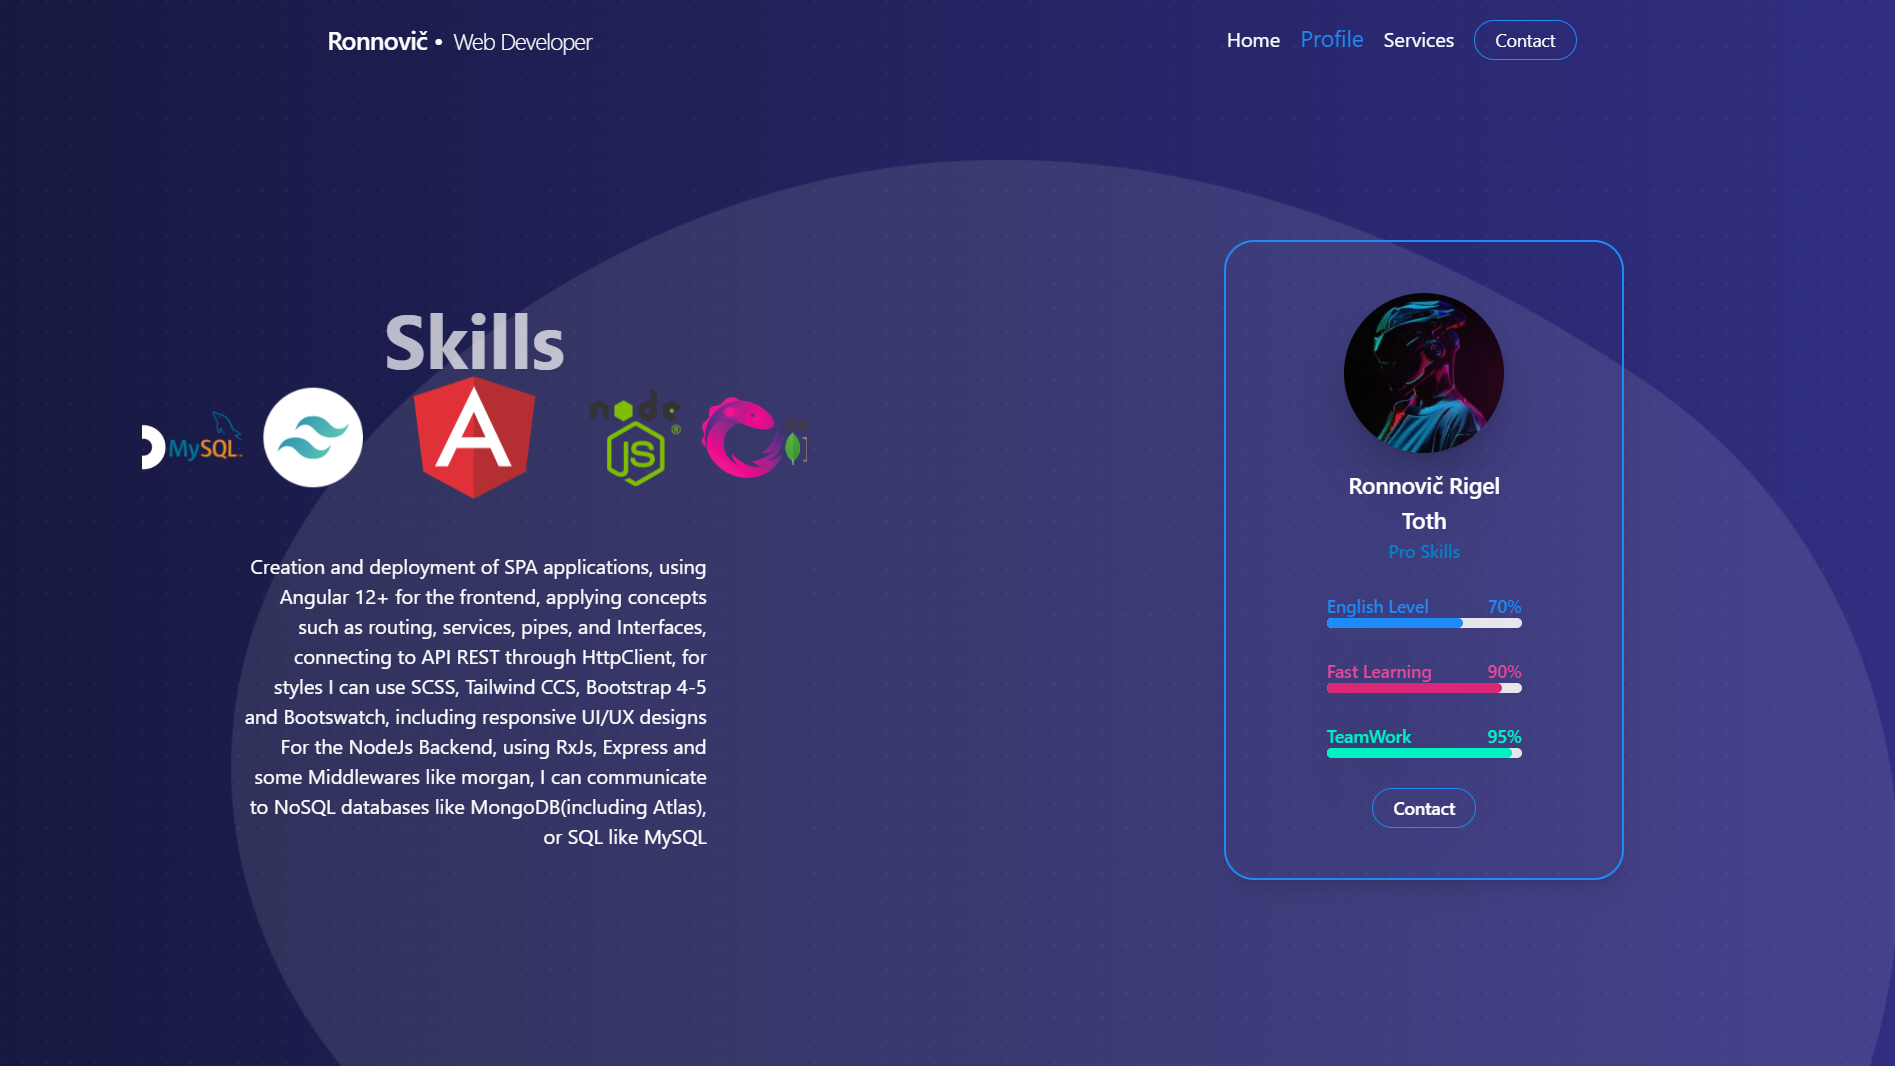
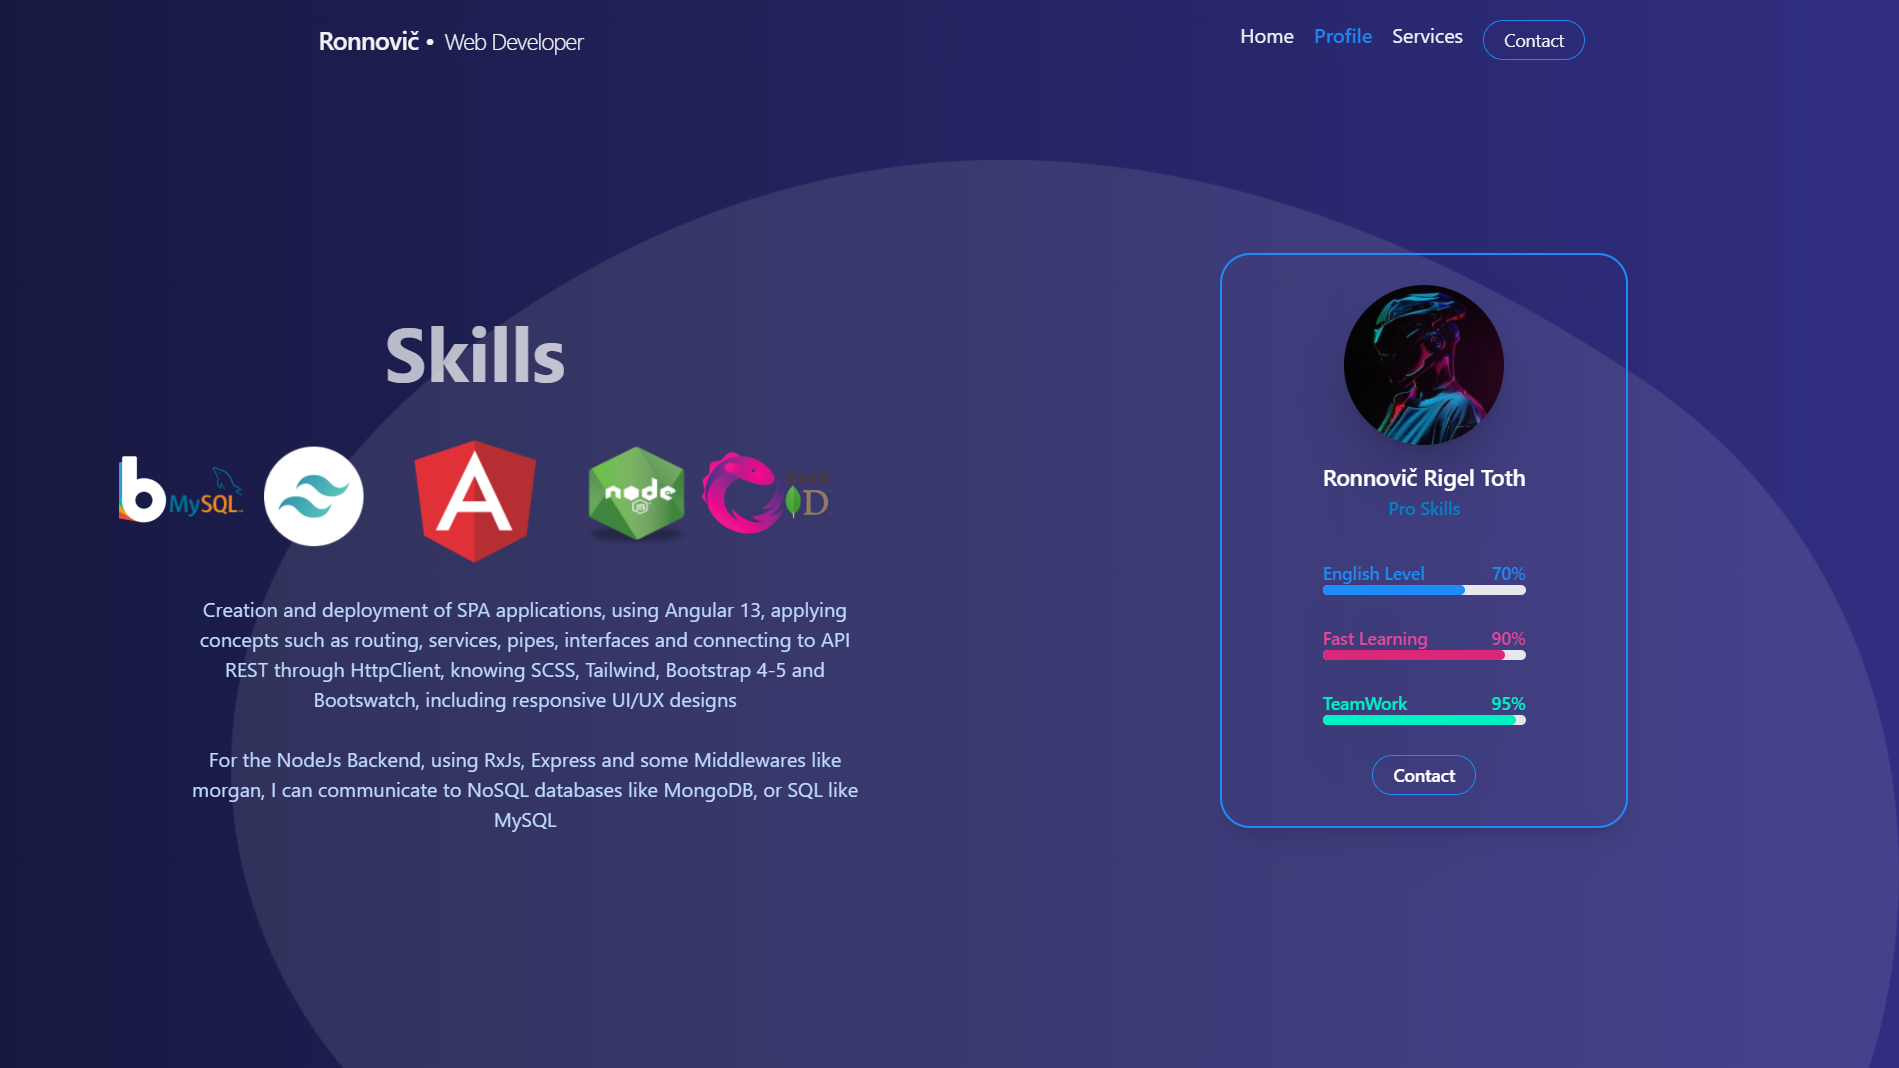
responsive started

diff --git a/src/app/pages/landing/landing.component.html b/src/app/pages/landing/landing.component.html
@@ -5,13 +5,14 @@
     <!-- <img class="z-i2 h-32 botton-0 left-0 mt-60 opacity-5 absolute" src="./assets/img/path3.png"> -->
 
     <div class="flex items-center justify-center mx-0 lg:mx-40 ">
-      <div class="container bg-transparent grid grid-cols-1 grid-rows-2 h-screen lg:grid-cols-3 mt-28">
+      <div class="container bg-transparent grid grid-cols-1 grid-rows-2 h-screen md:grid-cols-2 lg:grid-cols-3 mt-24 lg:mt-10">
   
-        <div class="bg-transparent grid grid-row row-span-2">
-          <div class="flex flex-col bg-transparent px-2 lg:px-5 w-11/12 m-auto rounded-lg 
+        <div class="bg-transparent grid grid-row row-span-2 ">
+          <div data-aos="zoom-in" data-aos-easing="ease-in-out"
+          class="flex flex-col bg-transparent px-2 lg:px-5 m-auto rounded-lg 
           hover:bg-pct hover:shadow-2xl hover:shadow-pct h-auto">
             <div class=" text-4xl text-bl text-center pt-6">Amazing Design <i class="fas fa-palette text-2xl"></i></div>
-            <div class="block text-xl text-white text-center p-5 ">With tools like Bootstrap 5, Bootswatch, SASS, SCSS, and Tailwind and others, we'll create the best, colorful, innovative and responsive webapp ever</div>
+            <div class=" text-xl text-white text-center p-3 ">With tools like Bootstrap 5, Bootswatch, SASS, SCSS, and Tailwind and others, we'll create the best, colorful, innovative and responsive webapp ever</div>
             <!-- <swiper [config]="config">
               <div class="swiper-wrapper">
                 <img class="swiper-slide" *ngFor="let img of Imgs" [src]="img.src" [alt]="img.alt" />
@@ -21,34 +22,47 @@
         </div>
 
         <div class="bg-transparent grid grid-col mt-[20rem] lg:mt-0">
-          <div class="flex flex-col bg-transparent px-2 lg:px-5 w-11/12 m-auto rounded-lg 
+          <div data-aos="fade-down-right" data-aos-easing="ease-in-out" 
+          class="flex flex-col bg-transparent px-2 lg:px-5 m-auto rounded-lg 
           hover:bg-pink-500 hover:shadow-2xl hover:shadow-pink-500 ">
-            <div class="block text-4xl text-white text-center pt-6">Quality <i class="fas fa-clipboard-check text-2xl"></i></div>
-            <div class="block text-xl text-white text-center p-5">I dedicate each day of my life learning new things and always preparing myself, to always improve the quality of my job and user satisfaction</div>
+            <div class=" text-4xl text-white text-center pt-6">Quality <i class="fas fa-clipboard-check text-2xl"></i></div>
+            <div class=" text-xl text-white text-center p-3">I dedicate each day of my life learning new things and always preparing myself, to always improve the quality of my job and user satisfaction</div>
+            <span class="m-auto text-pink-500 text-lg hidden lg:flex">Hover me</span>
+            <span class="m-auto text-pink-500 text-lg lg:hidden">Tap me</span>
           </div>
         </div>
 
         <div class="bg-transparent grid grid-col mt-5">
-          <div class="flex flex-col bg-transparent px-2 lg:px-5 w-11/12 m-auto rounded-lg 
+          <div data-aos="fade-down-left" data-aos-easing="ease-in-out" 
+          class="flex flex-col bg-transparent px-2 lg:px-5 m-auto rounded-lg 
           hover:bg-grn hover:shadow-2xl hover:shadow-grn ">
-            <div class="block text-4xl text-white text-center pt-6">Comunication <i class="fas fa-comments text-2xl"></i></div>
-            <div class="block text-xl text-white text-center  p-5">Communication and teamwork are fundamentals for successful projects, I'm always willing to dialogue with my partners to find the most optimal solutions</div>
+            <div class=" text-4xl text-white text-center pt-6">Comunication<i class="fas fa-comments text-2xl"></i> 
+            </div>
+            <div class="text-xl text-white text-center p-3">Communication and teamwork are fundamentals for successful projects, I'm always willing to dialogue with my partners to find the most optimal solutions</div>
+            <span class="m-auto text-grn text-lg hidden lg:flex">Hover me</span>
+            <span class="m-auto text-grn text-lg lg:hidden">Tap me</span>
           </div>
         </div>
 
-        <div class="bg-transparent grid grid-col mt-5">
-          <div class="flex flex-col bg-transparent px-2 lg:px-5 w-11/12 m-auto rounded-lg 
+        <div data-aos="fade-up-right" data-aos-easing="ease-in-out" 
+        class="bg-transparent grid grid-col mt-5">
+          <div class="flex flex-col bg-transparent px-2 lg:px-5 m-auto rounded-lg 
           hover:bg-bl hover:shadow-2xl hover:shadow-bl ">
-            <div class="block text-4xl text-white text-center pt-6">UX/UI <i class="fas fa-user-check text-2xl"></i></div>
-            <div class="block text-xl text-white text-center  p-5">Knowing and applying UX/UI concepts is essential for an application to be intuitive, friendly and, above all, to get the user to connect with your company.</div>
+            <div class=" text-4xl text-white text-center pt-6">UX/UI <i class="fas fa-user-check text-2xl"></i></div>
+            <div class="text-xl text-white text-center  p-5">Knowing and applying UX/UI concepts is essential for an application to be intuitive, friendly and, above all, to get the user to connect with your company.</div>
+            <span class="m-auto text-bl text-lg hidden lg:flex">Hover me</span>
+            <span class="m-auto text-bl text-lg lg:hidden">Tap me</span>
           </div>
         </div>
 
-        <div class="bg-transparent grid grid-col mt-5">
-          <div class="flex flex-col bg-transparent px-2 lg:px-5 w-11/12 m-auto rounded-lg 
+        <div data-aos="fade-up-left" data-aos-easing="ease-in-out" 
+        class="bg-transparent grid grid-col mt-5">
+          <div class="flex flex-col bg-transparent px-2 lg:px-5 m-auto rounded-lg 
           hover:bg-prpl hover:shadow-2xl hover:shadow-prpl ">
-            <div class="block text-4xl text-white text-center pt-6">Full Job <i class="fas fa-rocket text-2xl"></i></div>
-            <div class="block text-xl text-white text-center  p-5">A process that goes through all the parts of the proyect in a very professional way, frontend, backend, database, hosting and everything in one place</div>
+            <div class=" text-4xl text-white text-center pt-6">Full Job <i class="fas fa-rocket text-2xl"></i></div>
+            <div class=" text-xl text-white text-center  p-5">A process that goes through all the parts of the proyect in a very professional way, frontend, backend, database, hosting and everything in one place</div>
+            <span class="m-auto text-prpl text-lg hidden lg:flex">Hover me</span>
+            <span class="m-auto text-prpl text-lg lg:hidden">Tap me</span>
           </div>
         </div>
 
@@ -56,14 +70,16 @@
     </div>
 
     <!-- hire me -->
-  <div class="flex flex-row flex-wrap justify-between items-center mt-[70rem] lg:mt-0">
-    <div class="flex flex-col w-full lg:w-2/5 m-auto">
+  <div class="flex flex-row flex-wrap justify-between items-center mt-[70rem] sm:mt-[45rem] lg:mt-0">
+    <div data-aos="zoom-in" data-aos-easing="ease-in-out"
+    class="flex flex-col w-full lg:w-2/5 m-auto">
       <h1 class="text-center text-4xl text-white mx-2">
         What you're waiting for?, let's create our dreams.
       </h1>
     </div>
     <div class="flex flex-col bg-transparent p-5 m-auto drop-shadow-2xl">
-      <div class="flex items-center justify-center h-screen">
+      <div data-aos="fade-left" data-aos-easing="ease-in-out"
+      class="flex items-center justify-center h-screen">
         <div
           class="bg-transparent hover:bg-indigo-900 font-semibold text-center rounded-3xl border-2 border-bl hover:ring-2 shadow-lg p-10 max-w-xs">
           <img class="mb-3 w-32 h-32 rounded-full shadow-lg mx-auto" src="./assets/img/profile-pic.jpg"

diff --git a/src/app/pages/home/home.component.html b/src/app/pages/home/home.component.html
@@ -1,7 +1,7 @@
 <div class="backgroung">
     <!-- <img class="bg-img center" src="./assets/img/path1min.png"> -->
     <div class="container flex h-screen flex-wrap items-center justify-center w-full">
-      <h1 data-aos="zoom-in" data-aos-easing="linear" data-aos-duration="1000"
+      <h1 data-aos="zoom-in" data-aos-easing="linear" 
         class="text-center text-3xl text-white font-normal lg:font-bold">Welcome to the web universe, <br>
         <span class="text-center text-3xl text-white font-normal lg:font-bold">Let's build an incredible digital world.</span>
       </h1>
@@ -10,11 +10,11 @@
     <!-- <img class="bg-img right-0" src="./assets/img/path2min.png"> -->
     <!-- profile-page and landing-page -->
     <div class="container flex flex-row h-96 flex-wrap items-center justify-evenly px-2 lg:px-20">
-      <div data-aos="zoom-out" data-aos-easing="ease-in-out" data-aos-duration="1000"
+      <div data-aos="zoom-out" data-aos-easing="ease-in-out" 
         class="flex flex-col lg:w-2/5">
         <div
           class="img-pl">
-          <a [routerLink]="['/landing']"> <img class="rounded" src="./assets/img/lndng.png" alt="Profile"> </a>
+          <a [routerLink]="['/landing']"> <img class="rounded" src="./assets/img/lndg.png" alt="Profile"> </a>
         </div>
         <div class="flex flex-row justify-center my-5">
           <a [routerLink]="['/landing']"
@@ -22,7 +22,7 @@
             Services</a>
         </div>
       </div>
-      <div data-aos="zoom-out" data-aos-easing="ease-in-out" data-aos-duration="1000"
+      <div data-aos="zoom-out" data-aos-easing="ease-in-out" 
         class="flex flex-col lg:w-2/5">
         <div
           class="img-pl">
@@ -38,7 +38,7 @@
 
     <!-- neon cards -->
     <!-- <img class="bg-img h-20 lg:h-96 opacity-5" src="./assets/img/path3min.png"> -->
-    <div class="container h-screen mt-60 lg:mt-24 flex flex-row flex-wrap justify-evenly items-center">
+    <div class="container h-screen mt-60 sm:mt-[32rem] md:mt-[42rem] lg:mt-24 flex flex-row flex-wrap justify-evenly items-center">
      
       <app-neon-card *ngFor="let card of cards" 
       [config]="card"></app-neon-card>
@@ -46,15 +46,15 @@
     </div>
 
     <!-- hire me -->
-    <div class="container mt-[60rem] lg:mt-10 grid grid-cols-1 lg:grid-cols-2">
-      <div  data-aos="zoom-in" data-aos-easing="linear" data-aos-duration="1000"
+    <div class="container mt-[60rem] lg:mt-40 grid grid-cols-1 lg:grid-cols-2">
+      <div  data-aos="zoom-in" data-aos-easing="linear" 
       class="flex flex-wrap items-center justify-center ">
         <h1 class="text-center mx-10 w-full text-4xl text-white font-light">
           Do you want to work together?, I'm sure we'll do very well.
         </h1>
       </div>
 
-      <div data-aos="fade-left" data-aos-easing="ease-in-out" data-aos-duration="2000"
+      <div data-aos="fade-left" data-aos-easing="ease-in-out"
       class=" flex bg-transparent items-center justify-center drop-shadow-2xl">
         <div class="flex items-center justify-center p-5 h-screen">
           <div

diff --git a/src/app/pages/profile/profile.component.html b/src/app/pages/profile/profile.component.html
@@ -3,7 +3,7 @@
 
 
     <div class="container grid grid-cols-1 lg:grid-cols-2 justify-around items-center">
-      <div data-aos="zoom-in" data-aos-easing="linear" data-aos-duration="1000" class=" mt-20 swiper w-full lg:w-3/4 mx-auto">
+      <div data-aos="zoom-in" data-aos-easing="linear" class=" mt-20 swiper w-full lg:w-3/4 mx-auto">
         <h1 class="text-6xl text-white text-center font-normal lg:font-bold mt-6 opacity-70">Skills</h1>
         <swiper [config]="config" >
           <div class="swiper-wrapper mt-10">
@@ -19,7 +19,7 @@
       </div>
 
       <div class="bg-transparent mx-4 drop-shadow-2xl">
-        <div data-aos="fade-left" data-aos-easing="ease-in-out" data-aos-duration="2000"
+        <div data-aos="fade-left" data-aos-easing="ease-in-out" 
           class="flex items-center justify-center h-screen">
           <div
             class="bg-transparent font-semibold text-center rounded-3xl border-2 border-bl hover:ring-2 shadow-lg py-6 px-10 lg:px-20">

diff --git a/src/app/pages/home/home.component.css b/src/app/pages/home/home.component.css
@@ -19,7 +19,7 @@
 /* profile and landing page */
 
 .img-pl{
-  @apply flex flex-row ring-1 rounded ring-pink-500 drop-shadow-2xl ease-in-out duration-300 hover:-translate-y-2;
+  @apply flex flex-row ring-1 rounded ring-pink-500 mx-1 md:mx-6 drop-shadow-2xl ease-in-out duration-300 hover:-translate-y-2;
 }
 .alink-pl{
   @apply inline-block font-light text-xl px-4 py-2 leading-none border rounded-full text-pink-500 border-pink-500 hover:border-pink-600 hover:text-pink-500 hover:bg-transparent hover:scale-110 ease-in-out duration-300 mt-4 lg:mt-0

diff --git a/src/app/layout/navigation/navigation.component.html b/src/app/layout/navigation/navigation.component.html
@@ -1,5 +1,4 @@
-<nav class="nav bg-gradient-to-r from-ndg to-indigo-900 opacity-50"
-  data-aos="zoom-in" data-aos-easing="linear" data-aos-duration="1000">
+<nav class="nav bg-gradient-to-r from-ndg to-indigo-900 opacity-95">
   <div class="flex items-center flex-shrink-0 text-white mr-6">
     <a [routerLink]="['/home']"> <span class="font-semibold text-xl tracking-tight ml-1">Ronnovič &#8226;</span>
       <span class="font-light text-lg tracking-tight ml-2">Web Developer</span></a>

diff --git a/tailwind.config.js b/tailwind.config.js
@@ -15,6 +15,11 @@ module.exports = {
         'pct': '#344675',
         'grn': '#00f2c3',
       }
+      // 'sm': '640px',  // => @media (min-width: 640px) { ... }
+      // 'md': '768px',  // => @media (min-width: 768px) { ... }
+      // 'lg': '1024px', // => @media (min-width: 1024px) { ... }
+      // 'xl': '1280px', // => @media (min-width: 1280px) { ... }
+      // '2xl': '1536px', // => @media (min-width: 1536px) { ... }
     },
   },
   plugins: [],

diff --git a/src/app/components/neon-card/neon-card.component.html b/src/app/components/neon-card/neon-card.component.html
@@ -1,5 +1,5 @@
 
-<div data-aos="fade-left" data-aos-easing="ease-in-out" data-aos-duration="1000" name="bg-nc"
+<div data-aos="fade-left" data-aos-easing="ease-in-out" name="bg-nc"
   class="neon-card"><img class="img-nc" src="{{config.img}}" alt="">
   <div class="px-6 py-4 text-center ">
       <div class="title-nc" name="title-nc">{{config.title}}</div>

diff --git a/src/app/pages/landing/landing.component.ts b/src/app/pages/landing/landing.component.ts
@@ -1,5 +1,7 @@
 import { Component, OnInit } from '@angular/core';
 import { SwiperOptions } from 'swiper';
+import * as AOS from 'aos';
+
 
 @Component({
   selector: 'app-landing',
@@ -43,6 +45,7 @@ export class LandingComponent implements OnInit {
   }
 
   ngOnInit(): void {
+    AOS.init()
   }
 
 }

diff --git a/src/app/layout/navigation/navigation.component.css b/src/app/layout/navigation/navigation.component.css
@@ -5,3 +5,6 @@
 .nav{
   @apply flex items-center justify-around flex-wrap bg-transparent fixed left-0 right-0 py-4 z-10;
 }
+.active{
+  @apply block mt-4 lg:inline-block lg:mt-0 text-bl font-semibold  mr-4;
+}
